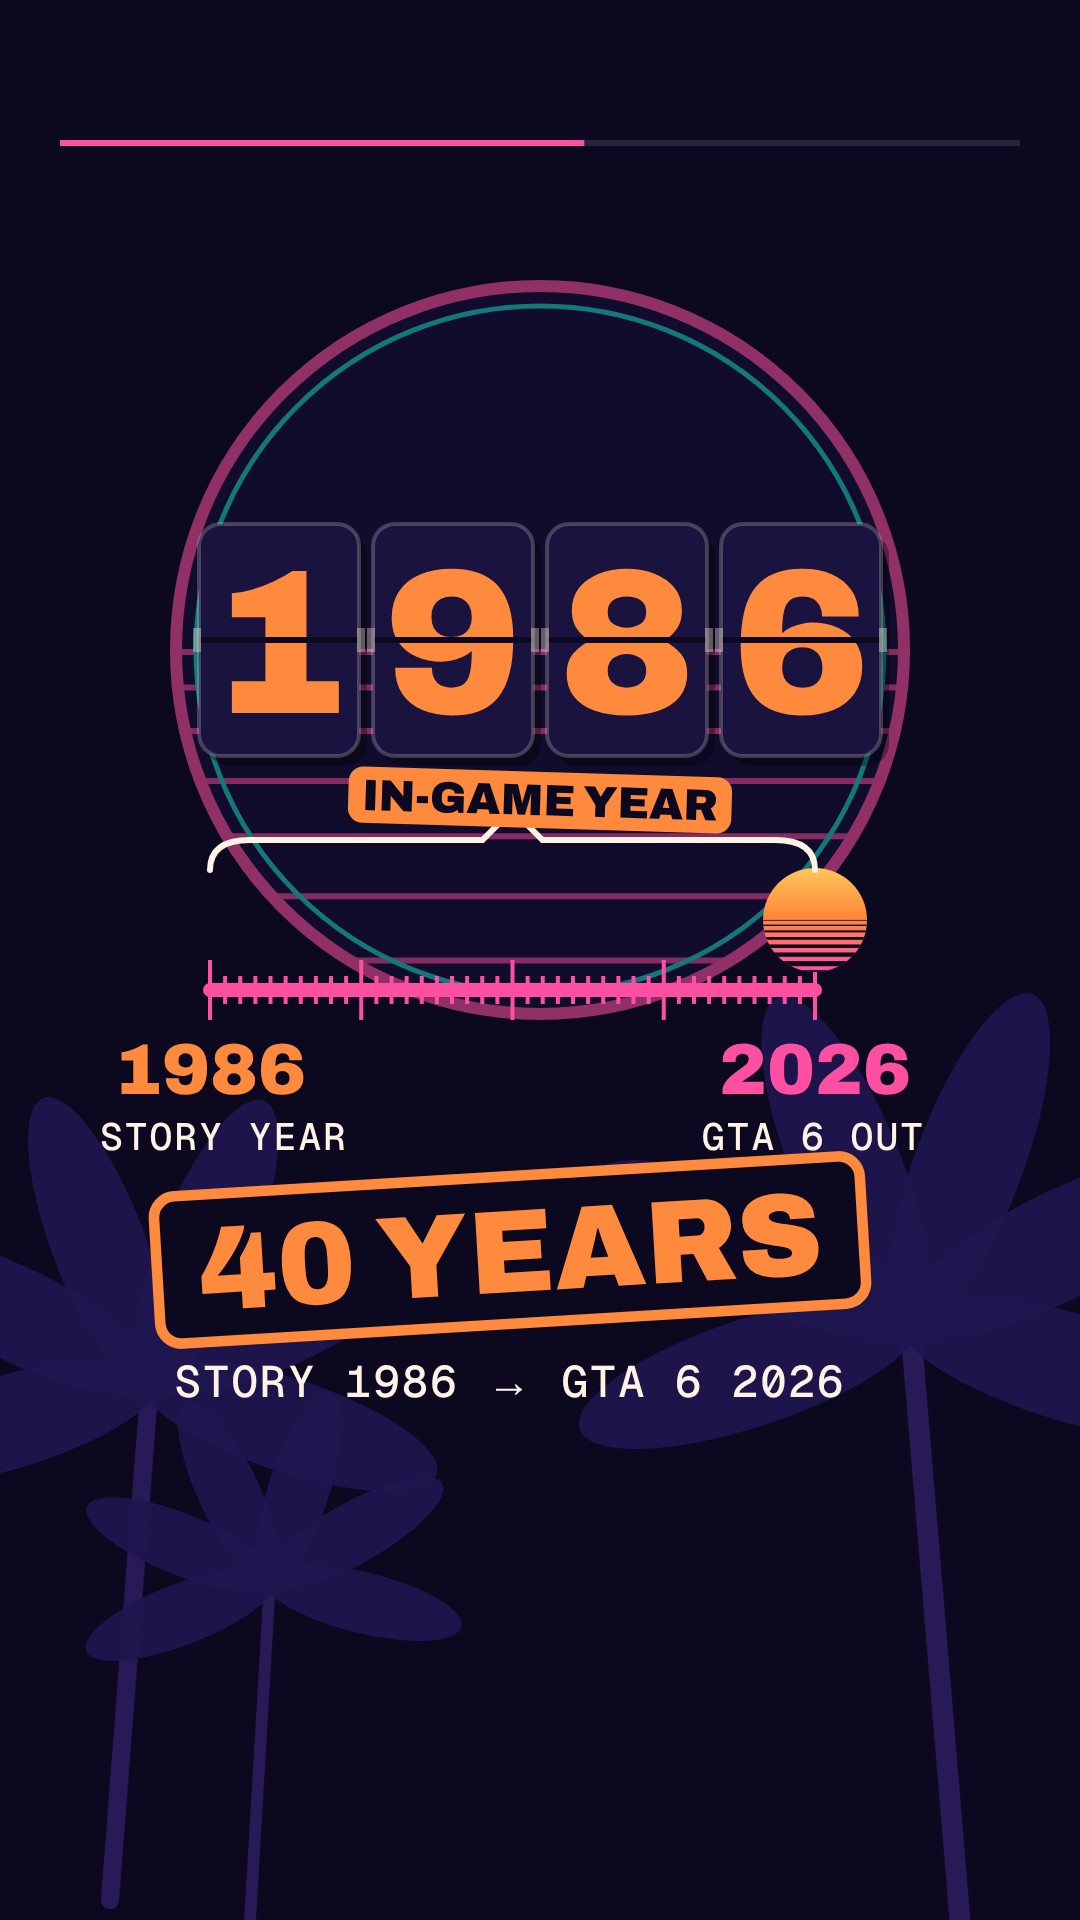
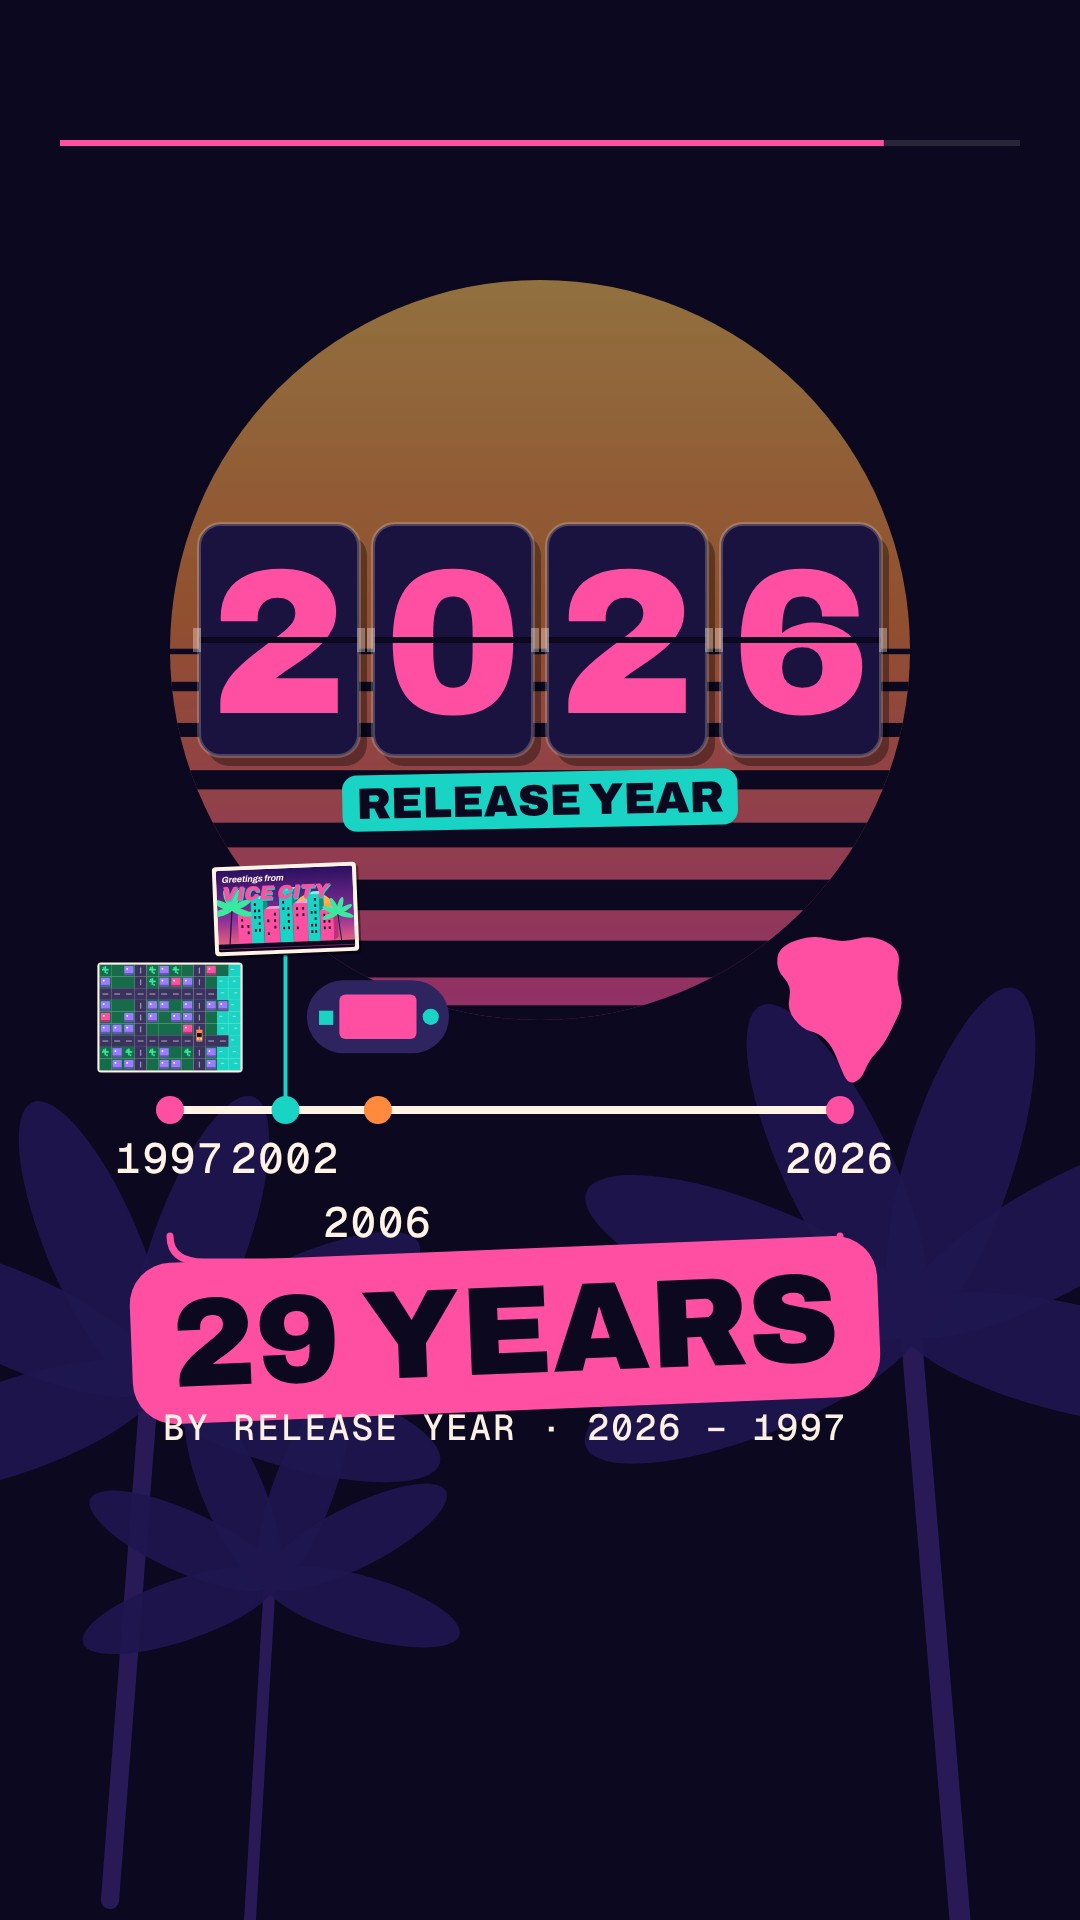
Delta: gta-vicecity passes the 7.0 gate; jury r2 fixes applied, re-rendered, queued for 19:00 ET
Also fix pacecheck's closing sentinel, which padded a still tail by a whole second.

Claude-Session: https://claude.ai/code/session_0183o4NZeSRX4Y4zdKq3cowf

diff --git a/film/gta-vicecity/film.js b/film/gta-vicecity/film.js
@@ -318,7 +318,7 @@
     var T = home ? 0 : t, out = 1 - seg(T, start('ask') - .45, start('ask') - .1);
     var ck = home ? 1 : lerp(.9, 1, eo(seg(T, 0, .3)));
     if (out > 0) chip(g, 'GTA 6', 540, 1190, { px: 120, bg: TEAL, fg: BG, wt: 900, rot: -.04, s: ck * lerp(.8, 1, out), a: out });
-    pixCar(g, home ? 190 : 190 + T * 190, 1425, out);
+    pixCar(g, 190 + t * 190, 1425, out);
     if (home) return;
     var vk = pop(t, at('hook', 'city') - .06);
     chip(g, 'VICE CITY', 540, 1310, { px: 64, bg: PINK, fg: BG, wt: 900, rot: .03, s: vk * lerp(.8, 1, out), a: vk * 3 * out });
@@ -360,15 +360,19 @@
     return { m: m, rows: rows, cols: cols };
   }
   var TILES = [tileMap(5), tileMap(8), tileMap(11)];
+  /* each city gets its own palette so the three rows read as three places (jury r2): Vice pink, Liberty slate, San Andreas sand */
+  TILES[0].pal = { ground: '#156b4a', b1: PURP, b2: PINK, water: TEAL };
+  TILES[1].pal = { ground: '#3d4a5c', b1: '#8fa3bf', b2: '#c9d4e3', water: '#4a7fb0' };
+  TILES[2].pal = { ground: '#9a6a2e', b1: ORG, b2: SAND, water: '#2fa7c9' };
   function drawTile(g, tm, t, carOn) {    // drawn at 1x around (0,0): GC*CELL x GR*CELL
     var w = GC * CELL, h = GR * CELL, x0 = -w / 2, y0 = -h / 2;
     rr(g, x0 - 10, y0 - 10, w + 20, h + 20, 18); g.fillStyle = CREAM; g.fill();
     for (var y = 0; y < GR; y++) for (var x = 0; x < GC; x++) {
       var c = tm.m[y][x], px = x0 + x * CELL, py = y0 + y * CELL;
-      g.fillStyle = c === 1 ? '#3a3360' : c === 3 ? TEAL : '#156b4a';
+      var pl = tm.pal; g.fillStyle = c === 1 ? '#3a3360' : c === 3 ? pl.water : pl.ground;
       g.fillRect(px, py, CELL, CELL);
       if (c === 1) { g.fillStyle = 'rgba(255,243,230,.5)'; if (tm.rows.indexOf(y) >= 0) g.fillRect(px + 14, py + CELL / 2 - 3, 28, 6); else g.fillRect(px + CELL / 2 - 3, py + 14, 6, 28); }
-      if (c === 2 || c === 5) { g.fillStyle = c === 5 ? PINK : PURP; g.fillRect(px + 6, py + 6, CELL - 12, CELL - 12); g.fillStyle = 'rgba(11,8,32,.35)'; g.fillRect(px + 6, py + CELL - 16, CELL - 12, 10); g.fillStyle = CREAM; g.fillRect(px + 16, py + 16, 8, 8); }
+      if (c === 2 || c === 5) { g.fillStyle = c === 5 ? pl.b2 : pl.b1; g.fillRect(px + 6, py + 6, CELL - 12, CELL - 12); g.fillStyle = 'rgba(11,8,32,.35)'; g.fillRect(px + 6, py + CELL - 16, CELL - 12, 10); g.fillStyle = CREAM; g.fillRect(px + 16, py + 16, 8, 8); }
       if (c === 4) { g.fillStyle = '#7a4a2a'; g.fillRect(px + 24, py + 24, 8, 8); g.fillStyle = MINT; g.fillRect(px + 12, py + 20, 32, 8); g.fillRect(px + 24, py + 8, 8, 32); g.fillRect(px + 16, py + 12, 8, 8); g.fillRect(px + 32, py + 36, 8, 8); }
       if (c === 3) { var wv = Math.floor(t * 3 + x + y) % 3; g.fillStyle = 'rgba(255,243,230,.55)'; g.fillRect(px + 10 + wv * 8, py + 20, 16, 5); }
     }
@@ -449,8 +453,14 @@
   }
   function scenePost(g, t) {
     var s0 = SC[S.post].t0, k = clamp(sp(t, s0 + .05, 2.2, .78), 0, 1.06);
-    var d3 = function (i) { var a0 = at('vc', 'goes') - .25 + i * .1; return eio(seg(t, a0, a0 + .45)); };
-    postcard(g, t, 520, 1135 + (1 - Math.min(1, k)) * 200, lerp(.85, 1, Math.min(1, k)), -.03 + Math.sin(t * 1.1) * .008, d3);
+    /* jury r2: the flat 1997 tile tilts back on "goes" and the 3D skyline stands up out of it on "3D" */
+    var tilt = eio(seg(t, at('vc', 'goes') - .1, at('vc', '3D') + .1)), rise = eio(seg(t, at('vc', 'goes') + .05, at('vc', '3D') + .3));
+    if (tilt < 1) {
+      var ty = 1135 + (1 - Math.min(1, k)) * 200 + tilt * 170, push = 1 + .04 * seg(t, s0, at('vc', 'goes'));
+      g.save(); g.globalAlpha = 1 - seg(t, at('vc', '3D') - .05, at('vc', '3D') + .15); g.translate(520, ty); g.transform(1, 0, -.35 * tilt, 1, 0, 0); g.scale(1.05 * push, 1.05 * push * lerp(1, .22, tilt)); drawTile(g, TILES[0], t, true); g.restore();
+    }
+    var d3 = function (i) { var a0 = at('vc', '3D') - .3 + i * .07; return eio(seg(t, a0, a0 + .4)); };
+    if (rise > 0) postcard(g, t, 520, lerp(1330, 1135, rise), lerp(.6, 1, rise), -.03 + Math.sin(t * 1.1) * .008, d3);
     var ck = pop(t, GT.ps2);
     chip(g, 'PS2 · OCT 2002', 690, 1352, { px: 46, bg: TEAL, fg: BG, wt: 900, rot: .03, s: ck, a: ck * 3 });
     var dk = pop(t, GT.p3d);
@@ -506,6 +516,7 @@
     label(g, 'STORY YEAR', 100, RY + 150, k, CREAM, 38, 'left');
     label(g, 'GTA 6 OUT', 925, RY + 150, k, CREAM, 38, 'right');
     label(g, 'STORY 1986 \u2192 GTA 6 2026', 510, 1385, eo(seg(t, GT.st40 + .35, GT.st40 + .7)), CREAM, 44);
+    var fk = pop(t, GT.st40); chip(g, '40 YEARS', 510, 1255, { px: 72, bg: ORG, fg: BG, wt: 900, rot: -.04, s: fk * (1 + .015 * Math.sin(t * 3)), a: fk * 3 });   /* a chip, not a stamp: 29 YEARS is the one hero (jury r2) */
     /* brace over the ruler */
     var bk = eio(seg(t, GT.roll40 + .2, GT.roll40 + 1.0));
     if (bk > 0) { g.save(); g.strokeStyle = CREAM; g.lineWidth = 6; g.lineCap = 'round'; g.globalAlpha = bk; var m = (RX0 + RX1) / 2, hw = (RX1 - RX0) / 2 * bk;
@@ -572,14 +583,14 @@
     g.save(); g.globalAlpha = clamp(vk * 3, 0, 1); g.strokeStyle = CREAM; g.lineWidth = 4; g.beginPath(); g.moveTo(dx - 14, dy + 16); g.lineTo(300, 1300); g.stroke(); g.restore();
     chip(g, 'VICE CITY', 250, 1330, { px: 44, bg: CREAM, fg: BG, wt: 900, s: vk, a: vk * 3, rot: -.03 });
     /* the date card and the platform card, right column */
-    var ck = pop(t, s0 + .2);
+    var ck = pop(t, s0 + .42);
     if (ck > 0) {
       g.save(); g.globalAlpha = clamp(ck * 3, 0, 1); g.translate(745, 1005); g.scale(ck, ck); g.rotate(.03);
       rr(g, -170, -115, 340, 230, 26); g.fillStyle = CREAM; g.fill();
       font(g, 86, 900); g.textAlign = 'center'; g.textBaseline = 'middle'; g.fillStyle = BG; g.fillText('NOV 19', 0, -40); g.fillStyle = PINK; g.fillText('2026', 0, 50);
       g.restore();
     }
-    var pk = pop(t, s0 + .4);
+    var pk = pop(t, s0 + .62);
     if (pk > 0) {
       g.save(); g.globalAlpha = clamp(pk * 3, 0, 1); g.translate(745, 1255); g.scale(pk, pk); g.rotate(-.02);
       rr(g, -170, -105, 340, 210, 26); g.fillStyle = PANEL2; g.fill(); g.strokeStyle = TEAL; g.lineWidth = 6; g.stroke();
@@ -594,7 +605,8 @@
      ===================================================================================================== */
   function sceneQuote(g, t) {
     var s0 = SC[S.quote].t0, k = clamp(sp(t, s0 + .05, 2.2, .78), 0, 1.06);
-    g.save(); g.translate(520, 1110 + (1 - Math.min(1, k)) * 200); g.rotate(-.03 + Math.sin(t * 1.2) * .006);
+    var qp = 1 + .07 * eio(seg(t, s0 + .4, SC[S.quote].t1));
+    g.save(); g.translate(520, 1110 + (1 - Math.min(1, k)) * 200); g.rotate(-.03 + Math.sin(t * 1.2) * .006 - .02 * seg(t, s0 + .4, SC[S.quote].t1)); g.scale(qp, qp);
     rr(g, -380 + 12, -235 + 16, 760, 470, 18); g.fillStyle = 'rgba(0,0,0,.4)'; g.fill();
     rr(g, -380, -235, 760, 470, 18); g.fillStyle = CREAM; g.fill();
     /* tape */
@@ -630,7 +642,7 @@
   function sceneTime(g, t) {
     var s0 = SC[S.time].t0, k = eio(seg(t, s0 + .05, s0 + .5)), bo = 1 - seg(t, GT.dq - .1, GT.dq + .15);
     g.save(); g.globalAlpha = k; g.strokeStyle = CREAM; g.lineWidth = 8; g.lineCap = 'round'; g.beginPath(); g.moveTo(TL.x0, TL.y); g.lineTo(TL.x1, TL.y); g.stroke(); g.restore();
-    var YRS = [1997, 2002, 2006, 2026], COL = [PINK, TEAL, ORG, PINK], TIER = [1015, 905, 1015, 1015], LY = [1162, 1162, 1214, 1162];
+    var YRS = [1997, 2002, 2006, 2026], COL = [PINK, TEAL, ORG, PINK], TIER = [1015, 905, 1015, 1015], LY = [1162, 1162, 1226, 1162];
     YRS.forEach(function (y, i) {
       var pk = pop(t, s0 + .15 + i * .12), x = tx(y);
       if (pk <= 0) return;
@@ -643,11 +655,11 @@
     if (bk > 0) { g.save(); g.strokeStyle = PINK; g.lineWidth = 7; g.lineCap = 'round'; g.globalAlpha = bk; var m = (TL.x0 + TL.x1) / 2, hw = (TL.x1 - TL.x0) / 2 * Math.min(1, bk * 1.2), Y = 1262;
       g.beginPath(); g.moveTo(m - hw, Y - 26); g.quadraticCurveTo(m - hw, Y, m - hw + 34, Y); g.lineTo(m - 26, Y); g.lineTo(m, Y + 26); g.lineTo(m + 26, Y); g.lineTo(m + hw - 34, Y); g.quadraticCurveTo(m + hw, Y, m + hw, Y - 26); g.stroke(); g.restore(); }
     if (t >= GT.s29) { var nk = sp(t, GT.s29, 3, .55), sc = lerp(1.3, 1, clamp(nk, 0, 1.2));
-      chip(g, '29 YEARS', 505, 1338, { px: 92, bg: PINK, fg: BG, wt: 900, rot: -.04, s: sc, a: clamp(nk * 3, 0, 1) * bo }); }
-    label(g, 'BY RELEASE YEAR \u00b7 2026 \u2212 1997', 505, 1418, eo(seg(t, GT.s29 + .2, GT.s29 + .5)) * bo, CREAM, 36);
+      chip(g, '29 YEARS', 505, 1330, { px: 124, bg: PINK, fg: BG, wt: 900, rot: -.04, s: sc * (1 + .012 * Math.sin((t - GT.s29) * 4)), a: clamp(nk * 3, 0, 1) * bo }); }
+    label(g, 'BY RELEASE YEAR \u00b7 2026 \u2212 1997', 505, 1430, eo(seg(t, GT.s29 + .2, GT.s29 + .5)) * bo, CREAM, 36);
     YRS.forEach(function (v, i) {
       var vk = pop(t, GT.vote[i]), col = i % 2, row = (i / 2) | 0;
-      chip(g, String(v), 330 + col * 370, 1290 + row * 118, { px: 70, bg: PANEL2, line: COL[i], fg: CREAM, wt: 900, lw: 5, pad: 34, s: vk, a: vk * 3, rot: (i % 2 ? .03 : -.03) });
+      chip(g, String(v), 330 + col * 370, 1290 + row * 118 + Math.sin(t * 2.4 + i * 1.6) * 7, { px: 70, bg: PANEL2, line: COL[i], fg: CREAM, wt: 900, lw: 5, pad: 34, s: vk * (1 + .03 * Math.max(0, Math.sin(t * 3.1 - i * 1.4))), a: vk * 3, rot: (i % 2 ? .03 : -.03) + Math.sin(t * 1.7 + i) * .015 });
     });
   }
 
@@ -711,7 +723,7 @@
     if (LIVE.text) captions(g, t);
     /* the loop: the last frame dissolves back into frame 0 */
     var back = eio(seg(t, HOME, HOME + .45));
-    if (back > 0) { g.save(); g.globalAlpha = back; frame(g, 0, true); g.restore(); }
+    if (back > 0) { g.save(); g.globalAlpha = back; frame(g, t - DUR, true); g.restore(); }   /* home keeps moving (sun stripes, car) and lands exactly on frame 0 at DUR */
     g.fillStyle = 'rgba(255,243,230,.12)'; g.fillRect(60, 140, W - 120, 6);
     g.fillStyle = PINK; g.fillRect(60, 140, (W - 120) * t / DUR, 6);
     if (LIVE.grain && NOISE) { g.globalAlpha = .05; g.globalCompositeOperation = 'overlay'; var o = Math.floor(t * 24) * 37 % 256; g.fillStyle = g.createPattern(NOISE, 'repeat'); g.translate(-o, -o); g.fillRect(o, o, W, H); g.setTransform(1, 0, 0, 1, 0, 0); g.globalAlpha = 1; g.globalCompositeOperation = 'source-over'; }
@@ -762,8 +774,8 @@
     if (si === S.ruler && t > GT.st40 + .5) add('ruler', 'STORY 1986 GTA 6 2026');
     if (si === S.hand && t > SC[S.hand].t0 + .3) add('hand', 'PSP 2006');
     if (si === S.hand && t > GT.s84 + .15) add('hand84', 'SET IN 1984');
-    if (si === S.leo && t > SC[S.leo].t0 + .3) add('leo', 'NOV 19 2026');
-    if (si === S.leo && t > SC[S.leo].t0 + .5) add('plat', 'PS5 XBOX SERIES X|S');
+    if (si === S.leo && t > SC[S.leo].t0 + .52) add('leo', 'NOV 19 2026');
+    if (si === S.leo && t > SC[S.leo].t0 + .72) add('plat', 'PS5 XBOX SERIES X|S');
     if (si === S.quote && t > SC[S.quote].t0 + .1) add('quote', 'We\u2019re a long way from the \u201980s\u2026');
     if (si === S.time && t > GT.s29 + .15 && t < GT.dq) add('span', '29 YEARS');
     if (si === S.time && t > GT.vote[0] + .2 && t < HOME) add('best', '1997 2002 2006 2026');
@@ -774,14 +786,14 @@
   var EV = [];
   function initGaps() {
     GT.d2002 = SC[S.post].t0 - .15;                                   /* forward flips land under the wipe, in the pause, with a flap per digit */
-    GT.d1986 = wend('set', '1986') + .15; GT.d1986e = GT.d1986 + .45;  /* the backward roll sits in the pause after "1986" */
+    GT.d1986 = at('set', '1986') - .4; GT.d1986e = at('set', '1986') + .1;  /* jury r2: the backward roll lands on the spoken "1986" */
     GT.roll40 = start('forty') - .05;
-    G('st40', start('forty') - .3, 'stamp', .35, .55);
+    G('st40', start('forty') - .3, 'blip', .35, .7);
     GT.d2006 = SC[S.hand].t0 - .14;
     GT.s84 = at('vcs', 'Stories') - .05;
-    GT.d1984 = wend('vcs', '1984') + .15; GT.d1984e = GT.d1984 + .42;  /* the rewind, in the pause after "1984" */
-    G('rew', GT.d1984, 'rewind', .15, .7);
-    GT.d2026 = SC[S.leo].t0 - .15;
+    GT.d1984 = at('vcs', '1984') - .4; GT.d1984e = at('vcs', '1984') + .1;  /* lands on the spoken "1984" and holds ~1 s with its tag */
+    G('rew', wend('vcs', '1984') + .1, 'rewind', .3, .7);
+    GT.d2026 = SC[S.leo].t0 - .3;   /* the flip is done before the NOV 19 card pops */
     GT.ps2 = G('ps2', wend('vc', '2002') + .15, 'blip', .3, .9);
     GT.p3d = G('p3d', wend('vc', '3D') + .05, 'blip', .4, .9);
     GT.leoDot = SC[S.leo].t0 + .45; GT.leoBack = G('leoBack', wend('now', 'back') + .05, 'blip', .3, .9);
@@ -793,6 +805,7 @@
   function initTimes() {
     function A(t, type, g, extra) { if (t !== null) { var e = { t: t, type: type, g: g }; if (extra) for (var k in extra) e[k] = extra[k]; EV.push(e); } }
     GS.forEach(function (e) { A(e.t, e.type, e.g); });
+    A(0, 'flap', .8); A(.02, 'thump', .6);   /* jury r2: a hook sound before the first word (voice starts at 0.2 s) */
     SC.forEach(function (sc, i) { if (i > 1 && i !== S.ruler) { var s = gapSpan(sc.t0 - .22, sc.t0 + .2); if (s) A(s[0], 'swish', .9, { t1: s[1] }); } });
     var FR = free(.2);
     function ok(t0, body) { return FR.some(function (f) { return t0 >= f[0] && t0 + body <= f[1]; }); }
@@ -873,12 +886,10 @@
   }
   initGaps();
   initDial();
-  STAMPS = [['40 YEARS', GT.st40, SC[S.hand].t0 - .25, 118, ORG, 510, 1250]];
+  STAMPS = [];
   initTimes();
   /* poster: 40 YEARS fully landed, the caption above it gone (the pause after "comes out.") */
-  var POSTER_T = GT.st40 + .9;
-  VO.captions.forEach(function (c) { if (c.t0 >= start('forty') && c.t1 < start('vcs')) POSTER_T = c.t1 + .2; });
-  POSTER_T = Math.min(POSTER_T, SC[S.hand].t0 - .3);
+  var POSTER_T = Math.min(GT.s29 + .4, start('span') - .06);   /* poster: the 29 YEARS hero landed, before the caption comes up (jury r2) */
   window.FILM = { W: W, H: H, DUR: DUR, POSTER: POSTER_T, SLUG: 'gta-vicecity', SHOTS: SHOTS, init: init, render: render, frame: frame, LIVE: LIVE };
   window.BOUNDS_RUN = function (step) {
     BOUNDS = []; var out = {};

diff --git a/film/tools/pacecheck.py b/film/tools/pacecheck.py
@@ -51,7 +51,8 @@ def measure(path):
 
 def frozen_runs(times, mafd, min_len):
     runs, start = [], None
-    for t, v in zip(times + [times[-1] + 1], mafd + [1e9]):
+    dt = times[1] - times[0] if len(times) > 1 else 0   # the closing sentinel is one frame after the last, so a still tail isn't padded by a whole second
+    for t, v in zip(times + [times[-1] + dt], mafd + [1e9]):
         if v < STILL:
             start = t if start is None else start
         elif start is not None:

diff --git a/film/gta-vicecity/seo.md b/film/gta-vicecity/seo.md
@@ -1,6 +1,6 @@
 # SEO and posting text: GTA 6 Vice City is from 1997
 
-Channel: **Delta** (YouTube @deltaisac) only. YouTube Shorts only for now; TikTok is paused (a caption is kept below for later). Switch to Delta and verify the channel name in YouTube Studio before uploading. Slot: 2026-10-30 (ET), backlog row 4. Upload `out/gta-vicecity-vo.mp4` (voice + sound effects, no music, 41.9 s). Altered content: No. Written 2026-10-29 for a US audience. Facts and sources: `BRIEF.md`.
+Channel: **Delta** (YouTube @deltaisac) only. YouTube Shorts only for now; TikTok is paused (a caption is kept below for later). Switch to Delta and verify the channel name in YouTube Studio before uploading. Slot: 2026-11-04 19:00 ET, backlog row 4. Upload `out/gta-vicecity-vo.mp4` (voice + sound effects, no music, 42.5 s). Altered content: No. Written 2026-10-29 for a US audience; facts re-checked 2026-11-04. Facts and sources: `BRIEF.md`.
 
 ## YouTube Shorts title
 GTA 6's city is from 1997: 29 years of Vice City
@@ -15,8 +15,8 @@ Which Vice City was best? Comment the year: 1997, 2002, 2006 or 2026.
 GTA 6 launches November 19, 2026 on PS5 and Xbox Series X|S.
 
 Sources:
-- Rockstar Games, Grand Theft Auto VI (launch date, platforms, Vice City, USA): https://www.rockstargames.com/VI (read October 29, 2026)
-- Rockstar Games, Only in Leonida (quote: "We're a long way from the '80s, but Vice City is still the sun and fun capital of America."): https://www.rockstargames.com/VI/only-in-leonida (read October 29, 2026)
+- Rockstar Games, Grand Theft Auto VI (launch date, platforms, Vice City, USA): https://www.rockstargames.com/VI (read November 4, 2026)
+- Rockstar Games, Only in Leonida (quote: "We're a long way from the '80s, but Vice City is still the sun and fun capital of America."): https://www.rockstargames.com/VI/only-in-leonida (read November 4, 2026)
 - Take-Two press release, December 6, 2012 (GTA Vice City first released October 2002 on PS2, built on GTA III's open world): https://ir.take2games.com/static-files/06ef640d-9baa-4e31-9d0c-fa28d63be501
 - Take-Two press release, "Rockstar Games Ships Grand Theft Auto: Vice City for PlayStation 2" (October 29, 2002): https://ir.take2games.com/news-releases/news-release-details/rockstar-games-ships-grand-theft-auto-vice-city-playstation-r-2
 - Take-Two press releases, Vice City Stories on PSP (October 31, 2006) and PS2 (March 2007): https://ir.take2games.com/static-files/43fadba7-2412-4215-a298-0266010c4f66 and https://ir.take2games.com/static-files/744c1b53-72cc-4587-8f90-4abb644a230d
@@ -39,7 +39,7 @@ Which Vice City was best? One year only: 1997, 2002, 2006 or 2026?
 GTA 6 Facts
 
 ## YouTube settings
-Altered or synthetic content: No. Not made for kids. Language English (US). Category Gaming. Post at 13:00 ET on 2026-10-30 (19:00 Stockholm): US lunch break, and it leaves the afternoon and evening for the first comments.
+Altered or synthetic content: No. Not made for kids. Language English (US). Category Gaming. Post at 19:00 ET on 2026-11-04 (01:00 Stockholm Nov 5), six hours after gta-lucia at 13:00 ET.
 
 ## TikTok caption (for later, TikTok is paused)
 GTA 6's Vice City is from 1997. Four Vice Cities, 29 years by release year. Which one was best? Comment the year. #gta6 #vicecity #gtavicecity #gaming
@@ -70,4 +70,4 @@ Autocomplete was not pulled; check the first phrase in YouTube search (English, 
 - A small Promote boost targeted at the US is worth it only if the vote thread takes off in the first day; otherwise skip.
 
 ## Note for the director
-`out/poster.jpg` (the 40 YEARS frame) has the caption cut mid-line ("before GTA") at the top. If the poster is used as the thumbnail, pick a frame where the caption reads whole, or the frame with the full 40 YEARS stamp and no caption.
+Since the jury-r2 fixes (2026-11-04) `out/poster.jpg` is the 29 YEARS hero frame with no caption.

diff --git a/film/gta-vicecity/BRIEF.md b/film/gta-vicecity/BRIEF.md
@@ -68,3 +68,4 @@ Turn words: "So" 3.5 s, "Then" 13.6 s, "Then" 24.1 s, "Now" 28.8 s. A new object
 - 2026-10-29 (director, jury r1 fixes): `now`, `quote`, `span`, `best` moved 0.6 s later to open pauses for the 1984 rewind and the 29 YEARS slam; `vcs` pinned at speed 1.1; `duck.smr_db` 40; `dur` 42.5 s. The dial no longer rolls 2026 → 1997 under 29 YEARS (it rests on 2026, then flips to ????).
 
 - 2026-10-29 (jury r2, fresh): 7.2 overall, Truth 8.5. Held under the Delta gate (7.4 / Truth 8.5, max 2 rounds); not posted. Open fixes if it is ever revived: make 29 YEARS the one hero stamp and poster (demote 40 to a chip); land the 1986/1984 rolls on the spoken word and tag 1984 ≥ 0.6 s; finish the 1984→2026 flip before the NOV 19 2026 card (28.5 s); a real 1997-tile → 3D skyline tilt on "3D"; a hook sound before the first word; single 29 YEARS slam; reuse the gta-leonida silhouette; stagger timeline labels; motion on the quote and vote holds; distinct city tiles.
+- 2026-11-04 (director, Go 7.0 gate): r2 passes the new gate (7.2 / Truth 8.5), so no new jury round. Applied r2 fixes: 29 YEARS is the one hero (124 px chip, single slam) and the poster (36.5 s, no caption); 40 YEARS demoted to a chip; the 1986 and 1984 rolls now land on the spoken year (1984 holds ~1 s with its IN-GAME YEAR tag); the 2026 flip finishes before the NOV 19 card (card at +0.42 s); the 1997 Vice tile tilts back on "goes" and the 3D skyline postcard rises out of it on "3D"; hook flap + thump at 0.0 s before the first word; each city tile has its own palette (Vice pink, Liberty slate, San Andreas sand); the quote card pushes in slowly and the vote chips bob; the home dissolve keeps moving and lands exactly on frame 0. Silhouette was already gta-leonida's. Voice unchanged (vo.wav decoded from the committed mp3). Checks: readcheck 19/19, in-mix WER ≤ 0.10 on all 12 lines, −14.0 LUFS (voice-only −14.8), no black, pacecheck ok (WARN 0–3 s motion 0.20). Tool fix: pacecheck's closing sentinel padded a still tail by a whole second (false "frozen 1.17 s" on a 0.2 s tail). Facts re-checked 2026-11-04 at rockstargames.com/VI (Nov 19, 2026; PS5, Xbox Series X|S; Vice City, USA) and /VI/only-in-leonida (quote verbatim in page source).
